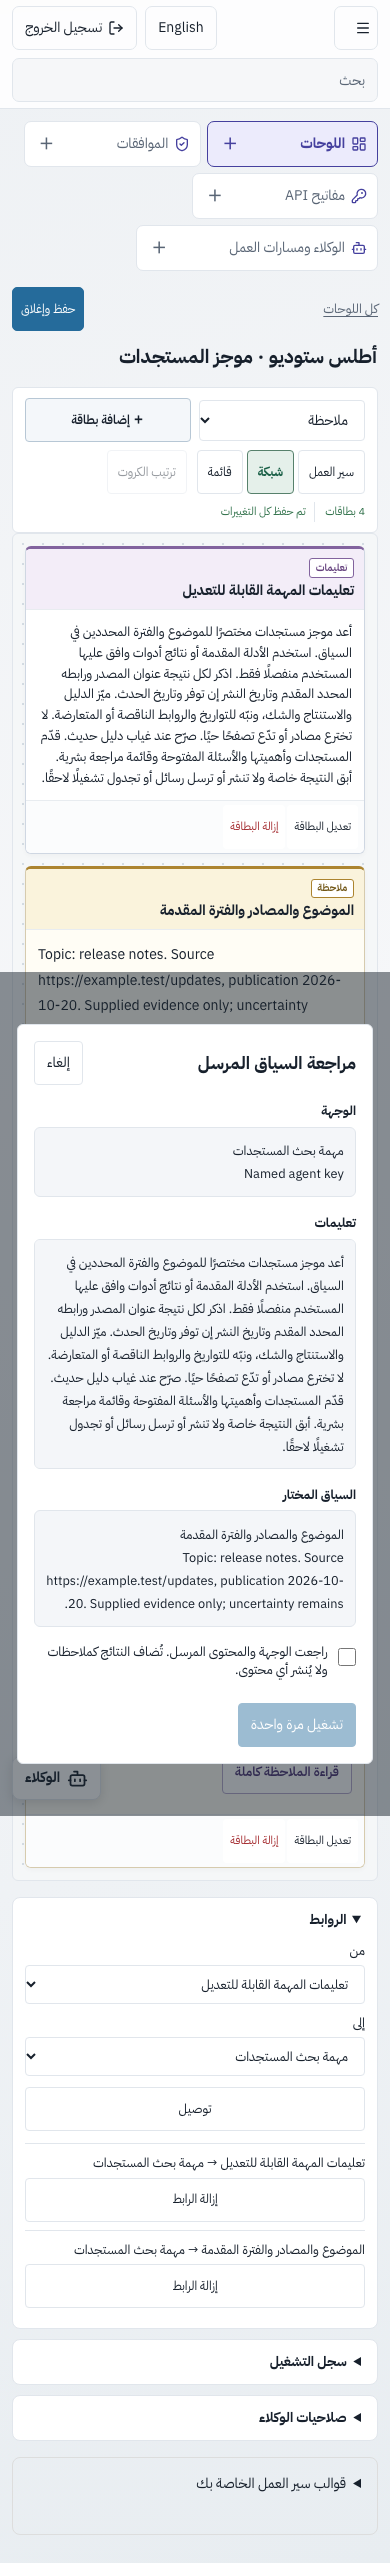
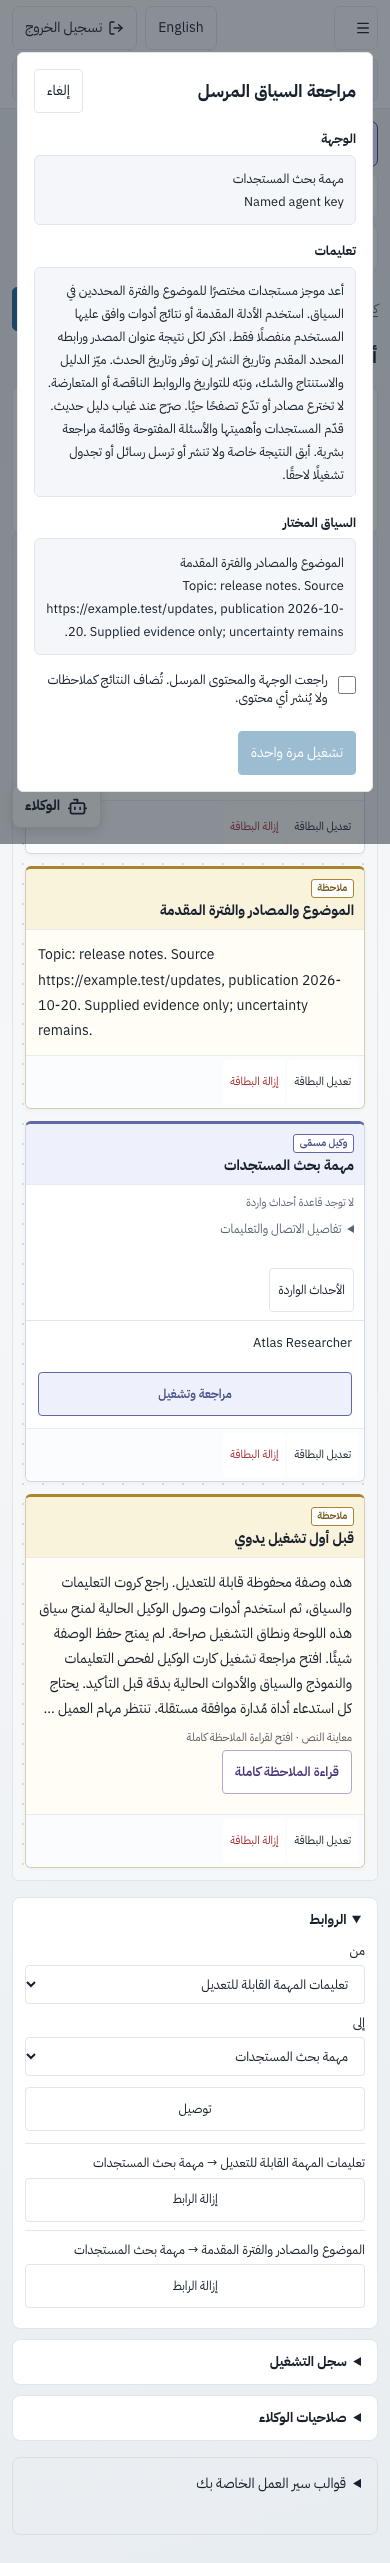
docs: capture the same recipe story on desktop and mobile

Changed region(s): [[0.0, 0.0, 1.0, 0.3433], [0.0, 0.3746, 1.0, 0.7179]]

diff --git a/e2e/tests/agent-recipes.spec.ts b/e2e/tests/agent-recipes.spec.ts
@@ -11,25 +11,35 @@ test('Updates Researcher recipe EN/AR saves privately, then hands exact reviewed
  const provider=createServer(async(req,res)=>{let body='';for await(const chunk of req)body+=chunk;received=JSON.parse(body);calls++;res.writeHead(200,{'Content-Type':'application/json'});res.end(JSON.stringify({choices:[{message:{content:'Synthetic brief: source https://example.test/updates, publication 2026-10-20. Evidence is supplied; no live browsing verified.'}}]}));});
  await new Promise<void>(resolve=>provider.listen(0,'127.0.0.1',resolve));const port=(provider.address() as {port:number}).port;
  const database=db();let keyID='',keyToken='';const boards:string[]=[];
+ const capture=async(locale:'en'|'ar',name:string)=>{
+  await page.evaluate(()=>window.scrollTo(0,0));
+  await page.screenshot({path:info.outputPath(name+'-'+locale+'.png'),fullPage:true});
+  if(locale==='ar'){
+   await page.setViewportSize({width:1440,height:1000});
+   await page.evaluate(()=>window.scrollTo(0,0));
+   await page.screenshot({path:info.outputPath(name+'-ar-desktop.png'),fullPage:true});
+   await page.setViewportSize({width:390,height:844});
+  }
+ };
  try{
   await page.goto('/admin/agents/keys');await setLocale(page,'en');await page.locator('#key-create > summary').click();await page.locator('[data-key-permissions] > summary').click();const name='Atlas Researcher';await page.locator('#k-name').fill(name);await page.locator('input[name=all]').check();await submitAndLand(page,page.locator('form[action="/admin/agents/keys"] button[type=submit]'),'/admin/agents/keys',201);keyToken=await page.locator('#k-plaintext').inputValue();keyID=(database.prepare('SELECT id FROM api_keys WHERE name=?').get(name) as any).id;
   for(const locale of ['en','ar'] as const){
    await page.goto('/admin/agents/recipes');await setLocale(page,locale);await page.setViewportSize(locale==='en'?{width:1440,height:1000}:{width:390,height:844});
    await expect(page.locator('[data-agent-recipe]')).toContainText(locale==='en'?'Updates Researcher':'باحث المستجدات');await page.locator('#recipe-agent').selectOption(keyID);await page.locator('form[method=get] button').click();await expect(page.locator('[data-recipe-configuration]')).toContainText(locale==='en'?'External client':'عميل خارجي');
    await page.locator('#recipe-title').fill(locale==='en'?'Atlas Studio · Updates brief':'أطلس ستوديو · موجز المستجدات');await page.locator('#recipe-context').fill('Topic: release notes. Source https://example.test/updates, publication 2026-10-20. Supplied evidence only; uncertainty remains.');
-   await page.locator('[data-recipe-form] button[value=preview]').click();await expect(page.locator('[data-recipe-preview]')).toBeVisible();expect(calls).toBe(boards.length);expect(await page.locator('#k-plaintext').count()).toBe(0);expect(await page.content()).not.toContain(keyToken);expect(await page.evaluate(()=>document.documentElement.scrollWidth>innerWidth)).toBe(false);await page.screenshot({path:info.outputPath('recipe-'+locale+'.png'),fullPage:true});
+   await page.locator('[data-recipe-form] button[value=preview]').click();await expect(page.locator('[data-recipe-preview]')).toBeVisible();expect(calls).toBe(boards.length);expect(await page.locator('#k-plaintext').count()).toBe(0);expect(await page.content()).not.toContain(keyToken);expect(await page.evaluate(()=>document.documentElement.scrollWidth>innerWidth)).toBe(false);await capture(locale,'recipe');
    const before=(database.prepare('SELECT count(*) n FROM admin_canvases').get() as any).n;
    await page.locator('[data-recipe-preview] input[name=reviewed]').check();await submitAndLand(page,page.locator('[data-recipe-form] button[value=save]'),'/admin/agents/recipes');await expect(page).toHaveURL(/\/admin\/canvases\/[A-Z0-9]{26}$/);
    const path=new URL(page.url()).pathname;boards.push(path.split('/').pop()!);expect((database.prepare('SELECT count(*) n FROM admin_canvases').get() as any).n).toBe(before+1);const board=await(await page.request.get(path+'/document')).json();const agent=board.cards.find((c:any)=>c.kind==='agent');expect(agent.agent_id).toBe(keyID);expect(board.cards.some((c:any)=>c.kind==='schedule')).toBe(false);expect((database.prepare('SELECT count(*) n FROM admin_canvas_grants WHERE board_id=?').get(boards.at(-1)!) as any).n).toBe(0);
    const post=async(suffix:string,data:any)=>page.request.post(path+suffix,{headers:{'X-CSRF-Token':await csrf(page)},data});
    expect((await post('/operations/preview',{version:board.version,node_id:agent.id})).status()).toBe(422);
    expect((await post('/operations/grants',{agent_id:keyID,read:true,append:true,run:true,node_ids:board.cards.filter((c:any)=>c.kind==='prompt'||c.kind==='note'&&c.id!==board.cards[3].id).map((c:any)=>c.id)})).status()).toBe(200);
-   await page.reload();const card=page.locator(`[data-card-id="${agent.id}"]`);await card.locator('.canvas-operation-button').click();const review=page.locator('.canvas-review');await expect(review).toContainText('https://example.test/updates');const check=review.locator('input[type=checkbox]');await expect(review.getByRole('button').last()).toBeDisabled();await page.screenshot({path:info.outputPath('recipe-review-'+locale+'.png'),fullPage:true});await check.check();const pending=page.waitForResponse(r=>r.request().method()==='POST'&&new URL(r.url()).pathname===path+'/operations/runs',{timeout:15000});await review.getByRole('button').last().click();const queued=await(await pending).json();expect(queued.run.status).toBe('waiting_agent');expect(calls).toBe(boards.length-1);
+   await page.reload();const card=page.locator(`[data-card-id="${agent.id}"]`);await card.locator('.canvas-operation-button').click();const review=page.locator('.canvas-review');await expect(review).toContainText('https://example.test/updates');const check=review.locator('input[type=checkbox]');await expect(review.getByRole('button').last()).toBeDisabled();await capture(locale,'recipe-review');await check.check();const pending=page.waitForResponse(r=>r.request().method()==='POST'&&new URL(r.url()).pathname===path+'/operations/runs',{timeout:15000});await review.getByRole('button').last().click();const queued=await(await pending).json();expect(queued.run.status).toBe('waiting_agent');expect(calls).toBe(boards.length-1);
    const args={board_id:boards.at(-1),run_id:queued.run.id};const ctx=toolPayload((await mcp(request,keyToken,'tools/call',{name:'canvases.context',arguments:args})).body.result).data;
    // This fixture is the separately running external client. Only now does it
    // choose to send the reviewed context to its scripted local HTTP provider.
    const result=await(await fetch(`http://127.0.0.1:${port}/v1/chat/completions`,{method:'POST',headers:{'Content-Type':'application/json'},body:JSON.stringify({model:'scripted-external-demo',messages:[{role:'system',content:ctx.prompt},{role:'user',content:ctx.context}]})})).json() as any;expect(received.messages[0].content).toBe(ctx.prompt);expect(received.messages[1].content).toBe(ctx.context);
-   const appended=await mcp(request,keyToken,'tools/call',{name:'canvases.append_result',arguments:{...args,context_token:ctx.context_token,text:result.choices[0].message.content}});expect(appended.body.result?.isError).not.toBe(true);const after=await(await page.request.get(path+'/document')).json();expect(after.cards.some((c:any)=>c.kind==='note'&&c.body===result.choices[0].message.content)).toBe(true);await page.reload();await page.locator('[data-canvas-view=grid]').click();const resultCard=page.locator('[data-card-id]').filter({hasText:result.choices[0].message.content});await expect(resultCard).toHaveCount(1);await resultCard.scrollIntoViewIfNeeded();await page.screenshot({path:info.outputPath('recipe-result-'+locale+'.png'),fullPage:true});
+   const appended=await mcp(request,keyToken,'tools/call',{name:'canvases.append_result',arguments:{...args,context_token:ctx.context_token,text:result.choices[0].message.content}});expect(appended.body.result?.isError).not.toBe(true);const after=await(await page.request.get(path+'/document')).json();expect(after.cards.some((c:any)=>c.kind==='note'&&c.body===result.choices[0].message.content)).toBe(true);await page.reload();await page.locator('[data-canvas-view=grid]').click();const resultCard=page.locator('[data-card-id]').filter({hasText:result.choices[0].message.content});await expect(resultCard).toHaveCount(1);await resultCard.scrollIntoViewIfNeeded();await capture(locale,'recipe-result');
    await page.goto('/admin/canvases');await expect(page.locator('body')).toContainText(locale==='en'?'Atlas Studio · Updates brief':'أطلس ستوديو · موجز المستجدات');
   }
   expect(calls).toBe(2);expect(database.prepare('SELECT value_json FROM settings WHERE key=?').get('agents.bundle.'+keyID)).toBeUndefined();

diff --git a/README.ar.md b/README.ar.md
@@ -128,15 +128,17 @@ If a tool requests approval, report its request ID and wait for the decision.
 
 **١. عدّل الوصفة حسب احتياجك.** افتح **قوالب أدوار الوكلاء ← بناء وصفة باحث المستجدات**. اختر وكيلك المحفوظ، وعدّل التعليمات وأضف الموضوع ومقتطفات المصادر وتواريخها. راجع إعداد النموذج وأدوات MCP الموجودة؛ المعاينة والحفظ لا يشغّلان الوكيل ولا يمنحانه وصولًا. [دليل الوصفة](docs/AGENT-RECIPES.md).
 
-![وصفة باحث المستجدات بتعليمات قابلة للتعديل ومصادر تجريبية لأطلس ستوديو](assets/branding/screenshots/researcher-setup-ar-mobile.png)
+![وصفة باحث المستجدات بتعليمات قابلة للتعديل ومصادر تجريبية لأطلس ستوديو](assets/branding/screenshots/researcher-setup-ar.png)
 
 **٢. راجع الطلب الفعلي.** احفظ الكانفس الخاص، وامنح الوكيل الوصول إلى السياق المطلوب، ثم افحص التعليمات والسياق الفعليين في شاشة مراجعة التشغيل. أكد التشغيل بصورة مستقلة. تحتفظ استدعاءات أدوات MCP المُدارة بموافقة كل استدعاء؛ والوكيل الخارجي يحتاج عميله المتصل.
 
-![مراجعة التعليمات والمصدر الفعليين قبل تأكيد تشغيل باحث المستجدات](assets/branding/screenshots/researcher-review-ar-mobile.png)
+![مراجعة التعليمات والمصدر الفعليين قبل تأكيد تشغيل باحث المستجدات](assets/branding/screenshots/researcher-review-ar.png)
 
 **٣. اقرأ النتيجة الخاصة.** يصل الموجز كملاحظة تبين مصدرها بجوار التعليمات والمصادر الأصلية. تساعد أنواع الكروت الواضحة ونقاط الاتصال المنفصلة وقارئ الملاحظات الكاملة على مراجعة العمل. يظل النشر قرارًا مستقلًا.
 
-![نتيجة باحث المستجدات كملاحظة خاصة بجوار كروت المصدر والمهمة](assets/branding/screenshots/researcher-result-ar-mobile.png)
+![نتيجة باحث المستجدات كملاحظة خاصة بجوار كروت المصدر والمهمة](assets/branding/screenshots/researcher-result-ar.png)
+
+[القصة على الموبايل: الإعداد](assets/branding/screenshots/researcher-setup-ar-mobile.png) · [المراجعة](assets/branding/screenshots/researcher-review-ar-mobile.png) · [النتيجة](assets/branding/screenshots/researcher-result-ar-mobile.png).
 
 بدّل بين **سير العمل** و**الشبكة** و**القائمة** دون تغيير المحتوى أو الروابط المحفوظة. [القصة بالإنجليزية: الإعداد](assets/branding/screenshots/researcher-setup-en.png) · [المراجعة](assets/branding/screenshots/researcher-review-en.png) · [النتيجة](assets/branding/screenshots/researcher-result-en.png).
 
